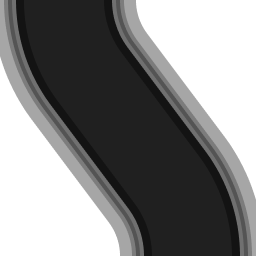
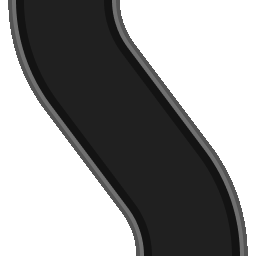
Conveyor type changing (#38)
* Add conveyor-reduced.png and delete conveyor shadows
* Change shortcut for rotation, next conveyor and zoom
* Can now change conveyor type with 'R'

Changed region(s): [[0.4688, 0.0, 1.0, 1.0], [0.0, 0.0, 0.5312, 1.0]]

diff --git a/satisfactory-planner/app.py b/satisfactory-planner/app.py
@@ -105,15 +105,19 @@ class ViewPort:
         self.__x_offset, self.__y_offset = 0, 0
         self.__resolution = settings.default_resolution  # px / m
         self.__show_floor = True
-        self.__show_grid = True
+        self.__show_grid = False
 
         self.__buildings: list[Building] = []
         self.__buildings_infos: dict[str, BuildingInfo] = dict()
         self.__scaled_building_images: dict[str, list[pygame.Surface]] = dict()
         self.__load_buildings()
 
-        # Image of the selected building when placing
         self.__selected_building_overlay: Building = Building(self.__buildings_infos["conveyor"], (0, 0))
+
+        self.__conveyor_types = (
+            "conveyor", "conveyor-reduced", "conveyor-l-shaped", "conveyor-wave-left", "conveyor-wave-right"
+        )
+        self.__conveyor_index = 0
 
     def __load_buildings(self):
         with open(os.path.join(os.path.dirname(os.path.abspath(__file__)), "../data/buildings.json"), 'r') as file:
@@ -174,21 +178,24 @@ class ViewPort:
 
         for event in events:
             if event.type == pygame.MOUSEMOTION:
-                if event.buttons[1] or (event.buttons[0] and keys_pressed[pygame.K_LCTRL]):
+                if event.buttons[0] and keys_pressed[pygame.K_LCTRL]:
                     self.__pan(event.rel)
 
-            elif event.type == pygame.MOUSEWHEEL:
+            elif event.type == pygame.MOUSEWHEEL and keys_pressed[pygame.K_LCTRL]:
                 self.__zoom(event.y, pygame.mouse.get_pos())
 
+            elif event.type == pygame.MOUSEWHEEL and self.__application.mode == Mode.BUILD:
+                self.__rotate_selected(event.y)
+
             elif event.type == pygame.KEYDOWN:
-                if event.key == pygame.K_g:     # show/hide grid
+                if event.key == pygame.K_g:  # show/hide grid
                     self.__show_grid = not self.__show_grid
 
-                elif event.key == pygame.K_f:   # show/hide floor
+                elif event.key == pygame.K_f:  # show/hide floor
                     self.__show_floor = not self.__show_floor
 
-                elif event.key == pygame.K_r:   # rotate selected building
-                    self.__rotate_selected()
+                elif event.key == pygame.K_r and "conveyor" in self.__selected_building_overlay.name and self.__application.mode == Mode.BUILD:  # Next conveyor type
+                    self.__next_conveyor_type()
 
             elif event.type == pygame.MOUSEBUTTONDOWN:
                 if event.button == 1 \
@@ -221,14 +228,18 @@ class ViewPort:
         self.__x_offset = int(xoff) + pos[0]
         self.__y_offset = int(yoff) + pos[1]
 
-    def __rotate_selected(self):
-        self.__selected_building_overlay.rotate(-90)
-        self.__building_overlay_image = self.__selected_building_overlay.get_scaled_image(self.__resolution)
+    def __rotate_selected(self, direction: int):
+        self.__selected_building_overlay.rotate(-90 * direction)
 
     def __place_building(self):
         aligned_pos = self.px_to_meter(*self.__get_mouse_coord())[:2]
-        building = Building(self.__buildings_infos[self.selected_building_name], aligned_pos, self.__selected_building_overlay.angle)
+        building = Building(self.__buildings_infos[self.selected_building_name], aligned_pos,
+                            self.__selected_building_overlay.angle)
         self.__buildings.append(building)
+
+    def __next_conveyor_type(self):
+        self.__conveyor_index = (self.__conveyor_index + 1) % len(self.__conveyor_types)
+        self.selected_building_name = self.__conveyor_types[self.__conveyor_index]
 
     def render(self, surface: pygame.Surface):
         self.__surface.fill(settings.background_color)
@@ -259,7 +270,8 @@ class ViewPort:
     def __draw_buildings(self):
         for building in self.__buildings:
             pos = self.meter_to_px(*building.pos)[:2]
-            self.__surface.blit(self.__scaled_building_images[building.name][(building.angle % 360) // 90].convert_alpha(), pos)
+            self.__surface.blit(
+                self.__scaled_building_images[building.name][(building.angle % 360) // 90].convert_alpha(), pos)
 
     def __draw_grid(self):
         mod_xoffset, mod_yoffset = self.__x_offset % self.__resolution, self.__y_offset % self.__resolution
@@ -275,7 +287,8 @@ class ViewPort:
 
     def __draw_selected_building(self):
         aligned_pos = self.meter_to_px(*self.px_to_meter(*self.__get_mouse_coord()))[:2]
-        self.__surface.blit(self.__scaled_building_images[self.__selected_building_overlay.name][(self.__selected_building_overlay.angle % 360) // 90], aligned_pos)
+        self.__surface.blit(self.__scaled_building_images[self.__selected_building_overlay.name][
+                                (self.__selected_building_overlay.angle % 360) // 90], aligned_pos)
 
     @staticmethod
     def __get_mouse_coord() -> tuple[int, int]:
@@ -350,14 +363,17 @@ class ControlBar:
 
         shortcut_button_padding = 4
         shortcut_buttons_count = 10
-        first_shortcut_x = (self.__w - shortcut_buttons_count * (settings.shortcut_button__size + shortcut_button_padding) + shortcut_button_padding) / 2
+        first_shortcut_x = (self.__w - shortcut_buttons_count * (
+                settings.shortcut_button__size + shortcut_button_padding) + shortcut_button_padding) / 2
 
         self.__buttons = [
-            ShortcutButton((first_shortcut_x + i * (settings.shortcut_button__size + shortcut_button_padding), shortcut_button_padding),
+            ShortcutButton((first_shortcut_x + i * (settings.shortcut_button__size + shortcut_button_padding),
+                            shortcut_button_padding),
                            (settings.shortcut_button__size, settings.shortcut_button__size),
                            os.path.join(os.path.dirname(os.path.abspath(__file__)),
                                         "../ressources/shortcuts/" + n + ".png"),
-                           t, lambda _: 0, settings.shortcut_button_background_color, settings.shortcut_button_focus_color
+                           t, lambda _: 0, settings.shortcut_button_background_color,
+                           settings.shortcut_button_focus_color
                            )
             for i, t, n in self.__shortcuts_properties.values()
         ]
@@ -407,7 +423,10 @@ class ControlBar:
     def __update_shortcuts_pos(self):
         shortcut_button_padding = 4
         shortcut_buttons_count = 10
-        first_shortcut_x = (self.__w - shortcut_buttons_count * (settings.shortcut_button__size + shortcut_button_padding) + shortcut_button_padding) / 2
+        first_shortcut_x = (self.__w - shortcut_buttons_count * (
+                settings.shortcut_button__size + shortcut_button_padding) + shortcut_button_padding) / 2
 
         for i, button in enumerate(self.__buttons):
-            button.pos = (first_shortcut_x + i * (settings.shortcut_button__size + shortcut_button_padding), shortcut_button_padding)
+            button.pos = (
+                first_shortcut_x + i * (settings.shortcut_button__size + shortcut_button_padding),
+                shortcut_button_padding)
